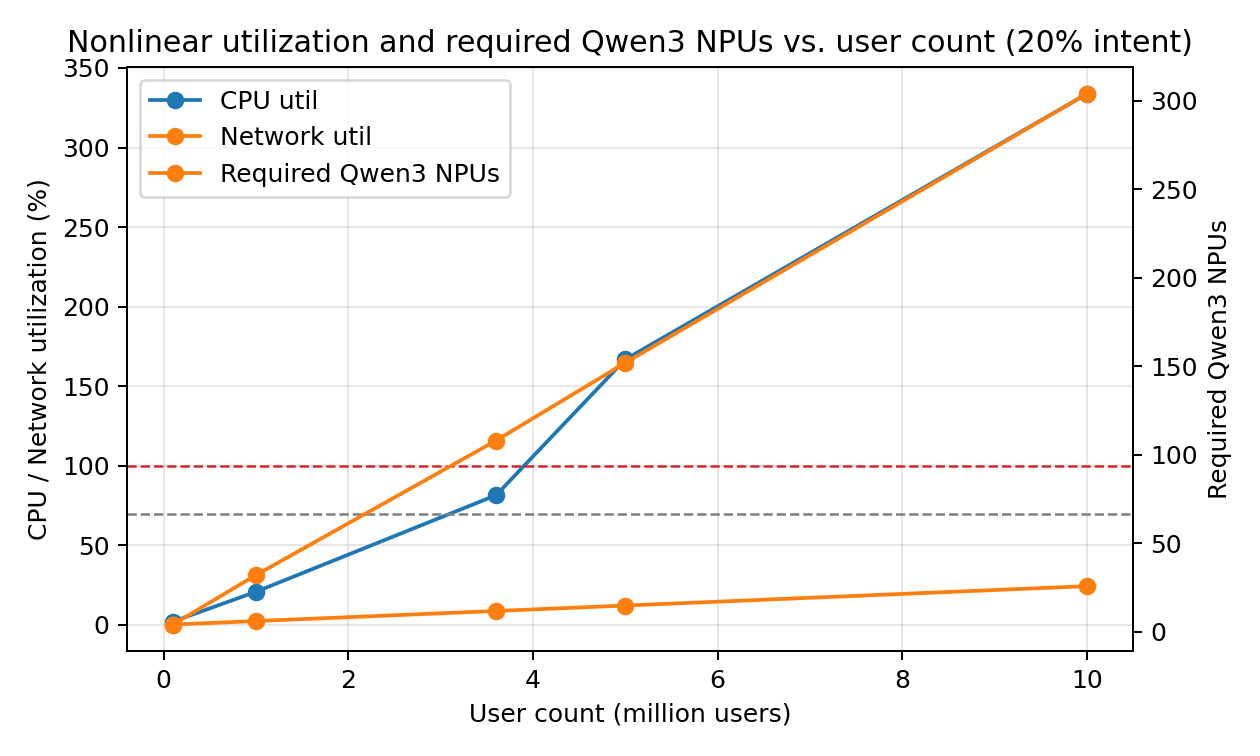
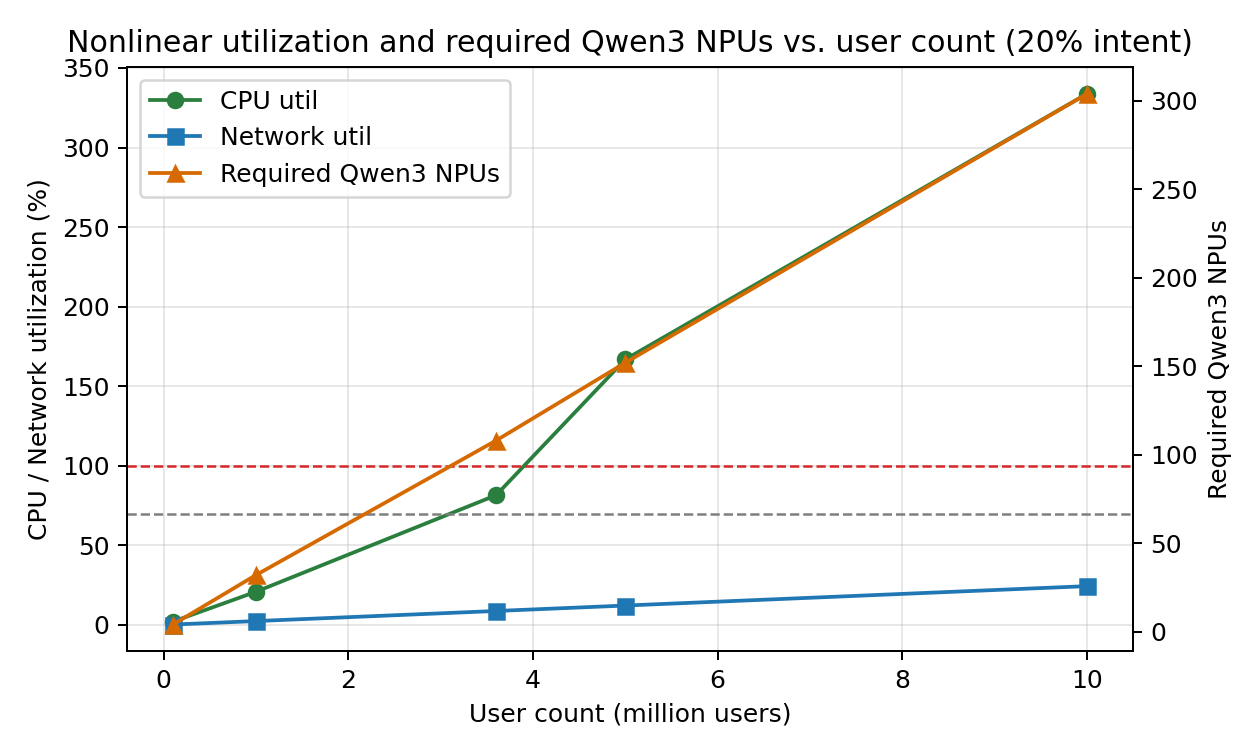
Use distinct colors for generated resource plots

diff --git a/scripts/agentic_model_outputs.py b/scripts/agentic_model_outputs.py
@@ -11,6 +11,10 @@ from typing import Dict, Iterable, List
 from agentic_model_config import SENSITIVITY_USERS, USER_COUNT_PLOT_INTENT_RATIO, ModelConfig
 from agentic_model_core import evaluate, fmt
 
+CPU_COLOR = "#2a7f3e"
+NETWORK_COLOR = "#1f77b4"
+NPU_COLOR = "#d66a00"
+
 def write_csv(rows: Iterable[Dict[str, float | str]], path: Path) -> None:
     rows = list(rows)
     path.parent.mkdir(parents=True, exist_ok=True)
@@ -39,13 +43,25 @@ def maybe_write_plots(rows: List[Dict[str, float | str]], out_dir: Path) -> None
 
     fig, ax_util = plt.subplots(figsize=(7, 4.2))
     ax_npu = ax_util.twinx()
-    cpu_line, = ax_util.plot(x, [float(r["cpu_utilization"]) * 100.0 for r in rows], marker="o", label="CPU util")
-    net_line, = ax_util.plot(x, [float(r["network_utilization"]) * 100.0 for r in rows], marker="o", label="Network util")
+    cpu_line, = ax_util.plot(
+        x,
+        [float(r["cpu_utilization"]) * 100.0 for r in rows],
+        marker="o",
+        color=CPU_COLOR,
+        label="CPU util",
+    )
+    net_line, = ax_util.plot(
+        x,
+        [float(r["network_utilization"]) * 100.0 for r in rows],
+        marker="s",
+        color=NETWORK_COLOR,
+        label="Network util",
+    )
     npu_line, = ax_npu.plot(
         x,
         [float(r["required_production_npus"]) for r in rows],
-        marker="o",
-        color="tab:orange",
+        marker="^",
+        color=NPU_COLOR,
         label="Required Qwen3 NPUs",
     )
     ax_util.axhline(70, color="tab:gray", linestyle="--", linewidth=1, label="70% utilization")
@@ -63,9 +79,9 @@ def maybe_write_plots(rows: List[Dict[str, float | str]], out_dir: Path) -> None
     plt.close()
 
     plt.figure(figsize=(7, 4.2))
-    plt.plot(x, finite_series("mean_latency_ms"), marker="o", label="mean")
-    plt.plot(x, finite_series("p95_latency_ms"), marker="o", label="p95")
-    plt.plot(x, finite_series("p99_latency_ms"), marker="o", label="p99")
+    plt.plot(x, finite_series("mean_latency_ms"), marker="o", color="#2a7f3e", label="mean")
+    plt.plot(x, finite_series("p95_latency_ms"), marker="s", color="#1f77b4", label="p95")
+    plt.plot(x, finite_series("p99_latency_ms"), marker="^", color="#d66a00", label="p99")
     plt.xlabel("Intent ratio across all requests (%)")
     plt.ylabel("Latency (ms)")
     plt.title("Nonlinear control-plane latency vs. intent ratio")
@@ -90,13 +106,25 @@ def maybe_write_user_count_plot(config: ModelConfig, out_dir: Path) -> None:
 
     fig, ax_util = plt.subplots(figsize=(7, 4.2))
     ax_npu = ax_util.twinx()
-    cpu_line, = ax_util.plot(x, [float(r["cpu_utilization"]) * 100.0 for r in rows], marker="o", label="CPU util")
-    net_line, = ax_util.plot(x, [float(r["network_utilization"]) * 100.0 for r in rows], marker="o", label="Network util")
+    cpu_line, = ax_util.plot(
+        x,
+        [float(r["cpu_utilization"]) * 100.0 for r in rows],
+        marker="o",
+        color=CPU_COLOR,
+        label="CPU util",
+    )
+    net_line, = ax_util.plot(
+        x,
+        [float(r["network_utilization"]) * 100.0 for r in rows],
+        marker="s",
+        color=NETWORK_COLOR,
+        label="Network util",
+    )
     npu_line, = ax_npu.plot(
         x,
         [float(r["required_production_npus"]) for r in rows],
-        marker="o",
-        color="tab:orange",
+        marker="^",
+        color=NPU_COLOR,
         label="Required Qwen3 NPUs",
     )
     ax_util.axhline(70, color="tab:gray", linestyle="--", linewidth=1, label="70% utilization")
